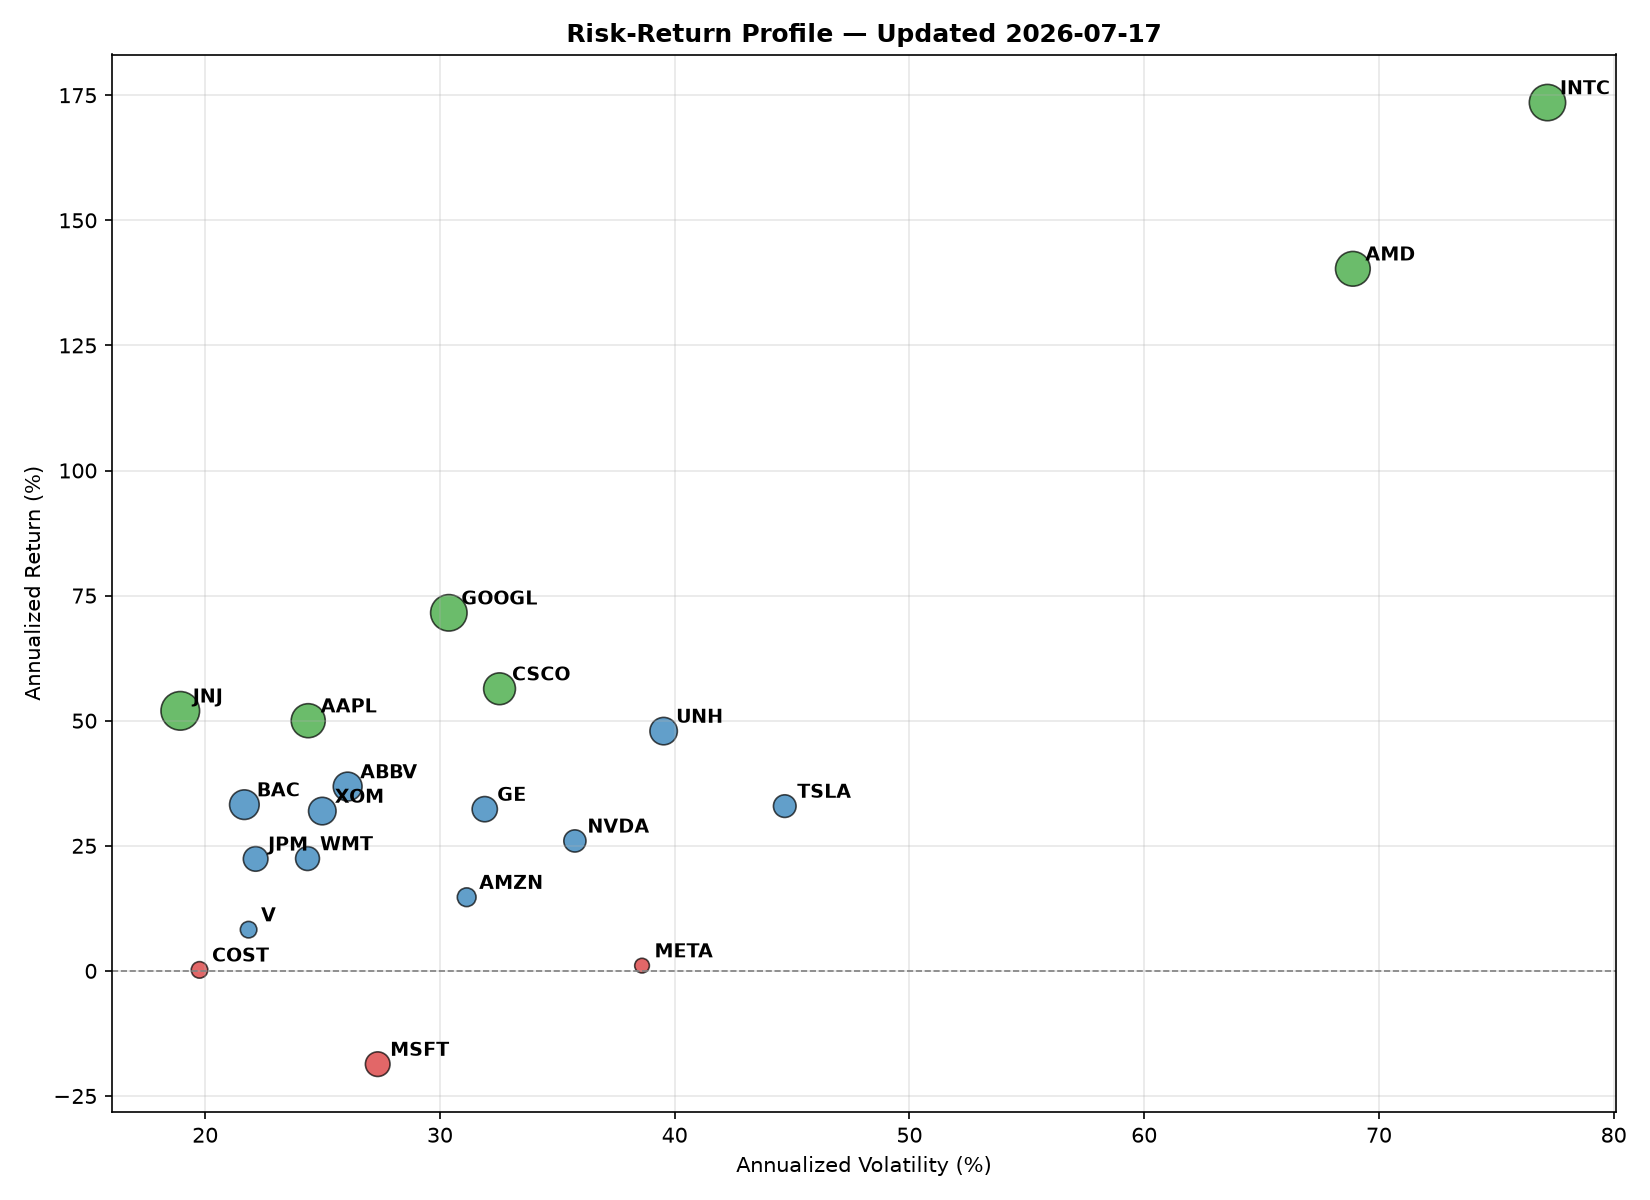
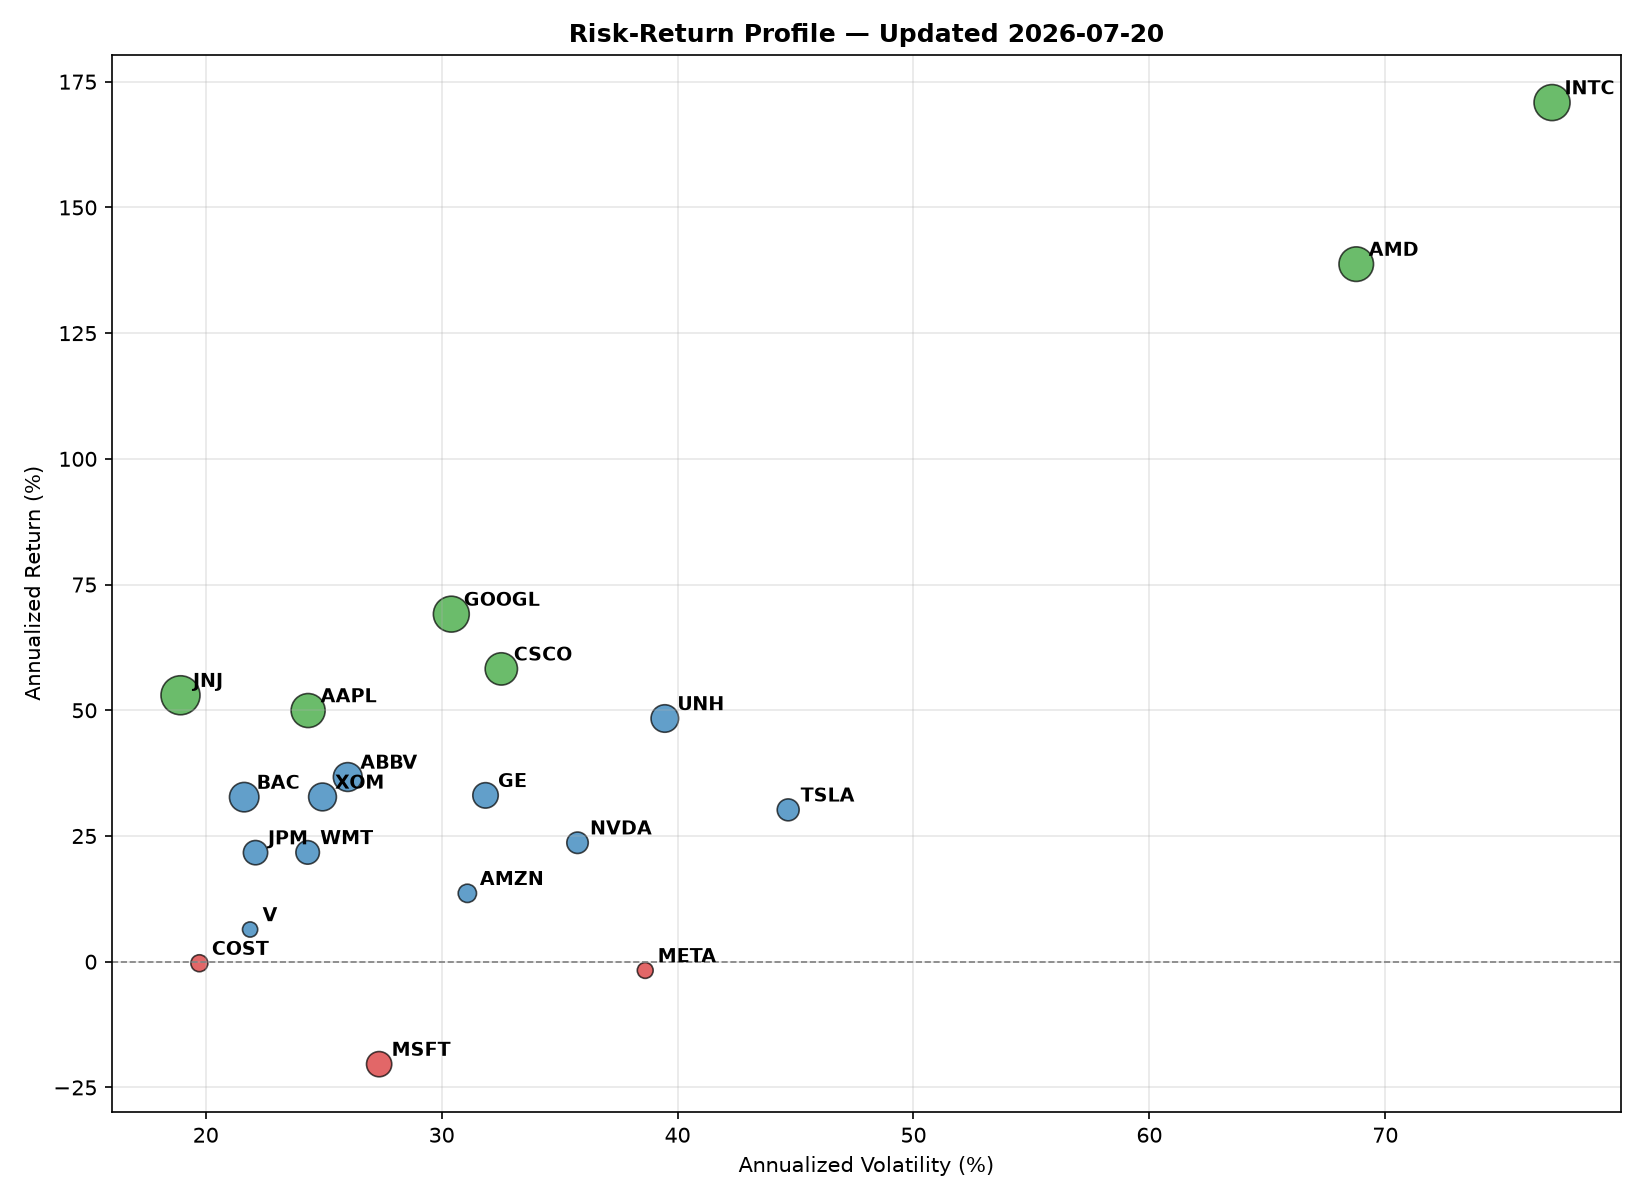
Automated daily update: prices, metrics, and charts

diff --git a/SNAPSHOT.md b/SNAPSHOT.md
@@ -1,9 +1,9 @@
-# Daily Risk Snapshot — 2026-07-16
+# Daily Risk Snapshot — 2026-07-17
 
-**Best mover:** ABBV (+4.21%)
-**Worst mover:** INTC (-5.84%)
-**Top risk-adjusted performer (trailing window):** JNJ (Sharpe 2.53)
+**Best mover:** CSCO (+2.08%)
+**Worst mover:** META (-2.79%)
+**Top risk-adjusted performer (trailing window):** JNJ (Sharpe 2.59)
 
-**⚠ Newly anomalous today:** COST, GE — return moved more than 2 std. deviations from its own 20-day trailing mean.
+**No new anomaly flags today.**
 
 _Auto-generated by `scripts/daily_snapshot.py` via GitHub Actions._